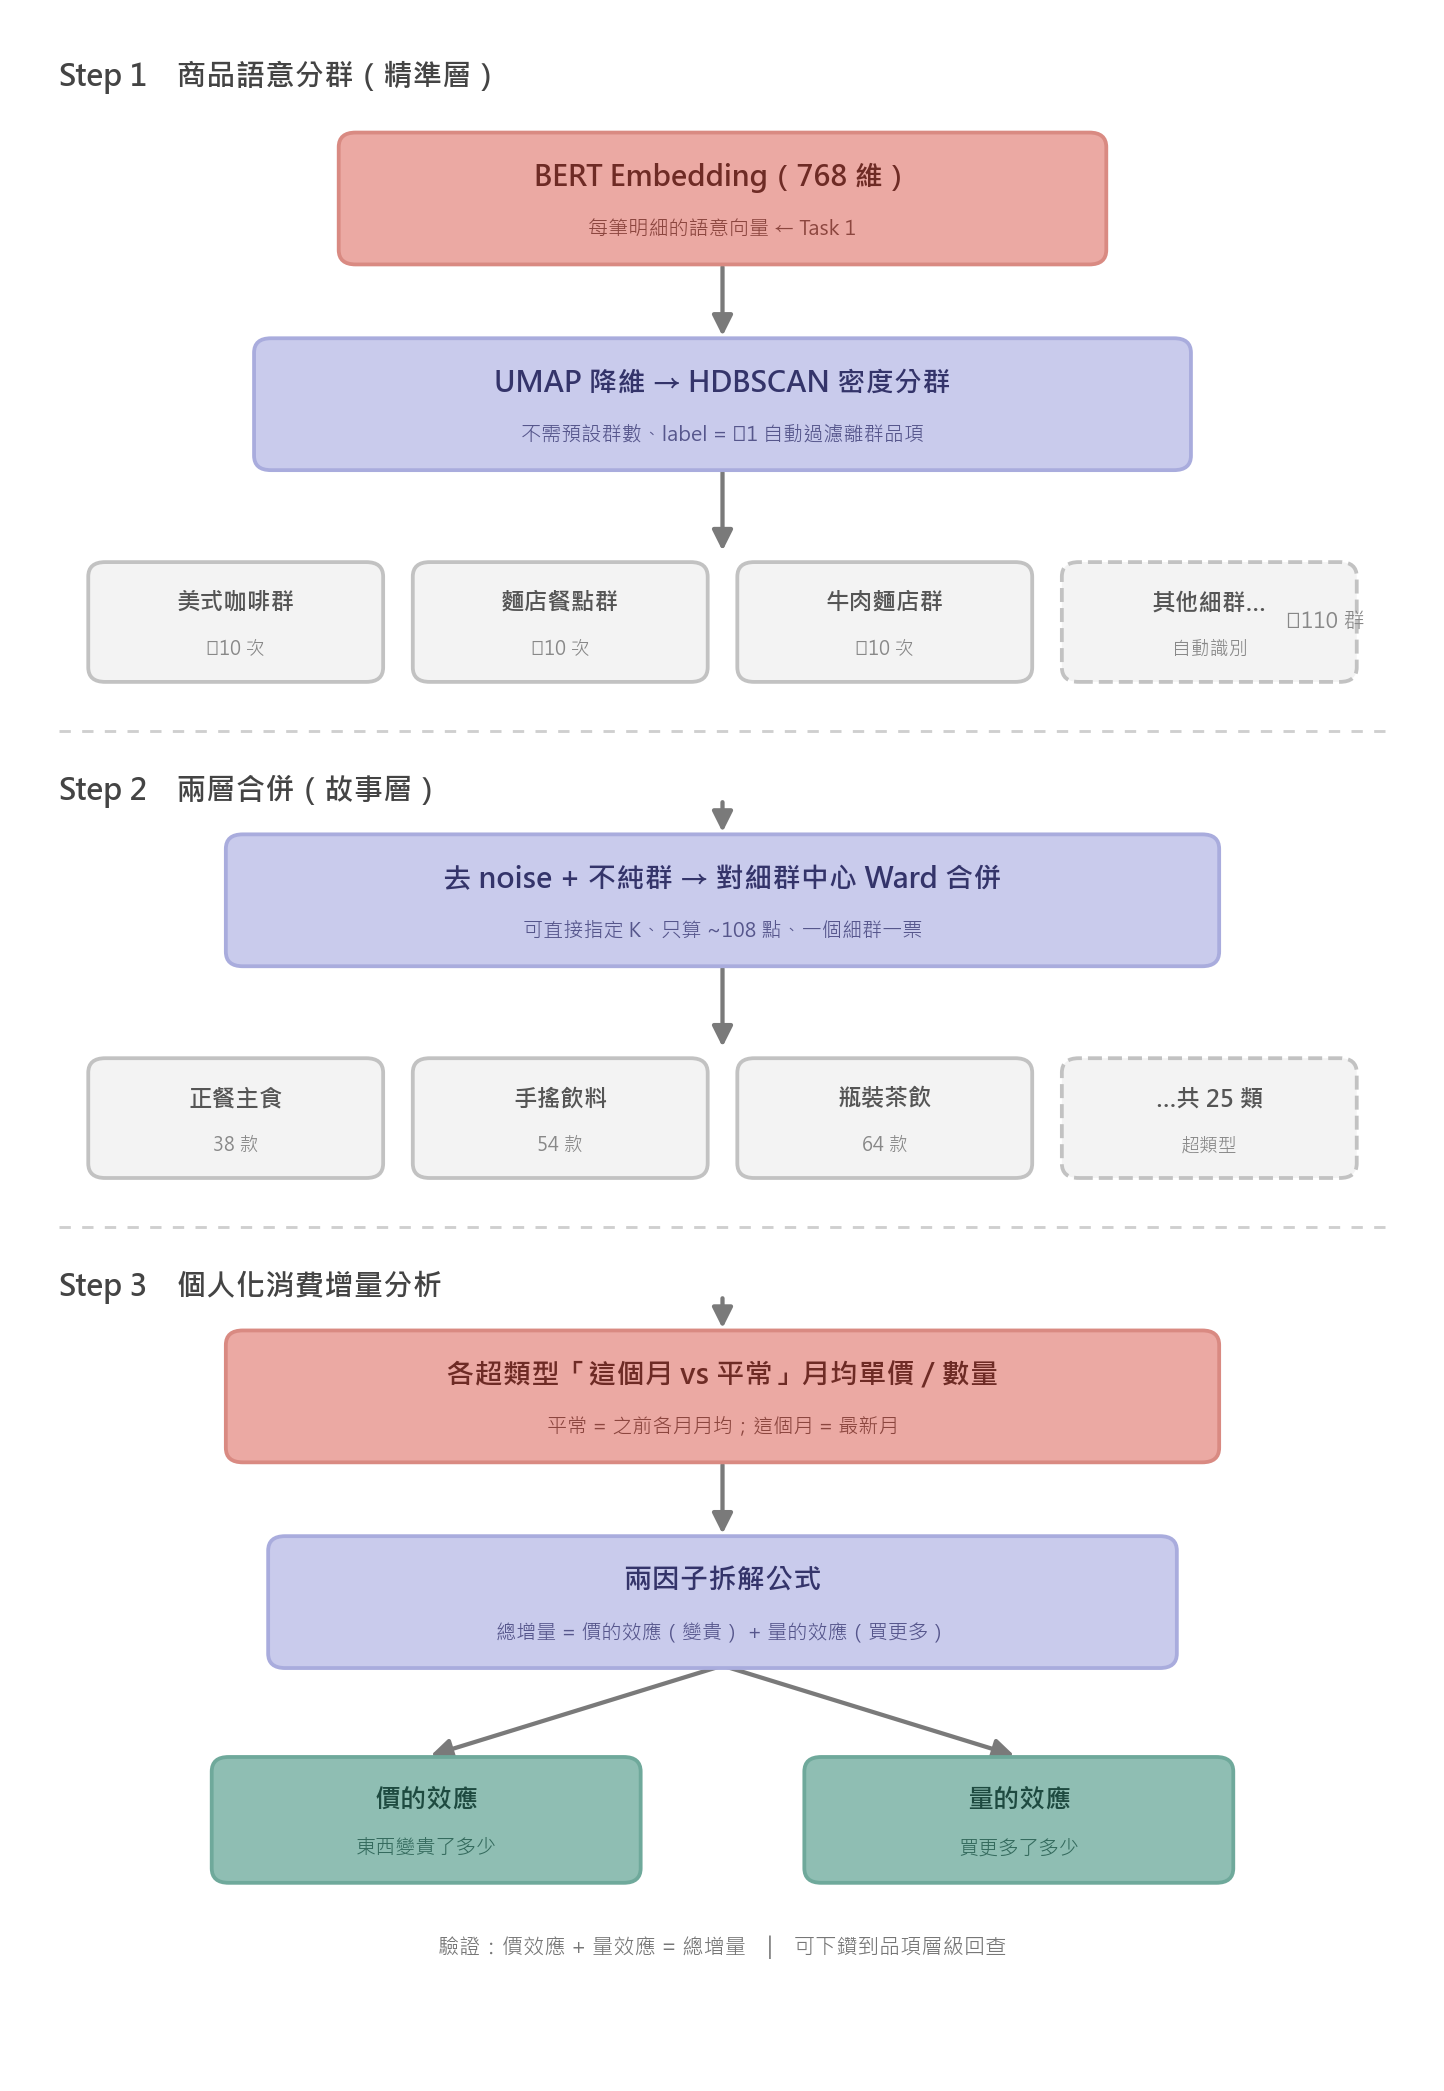
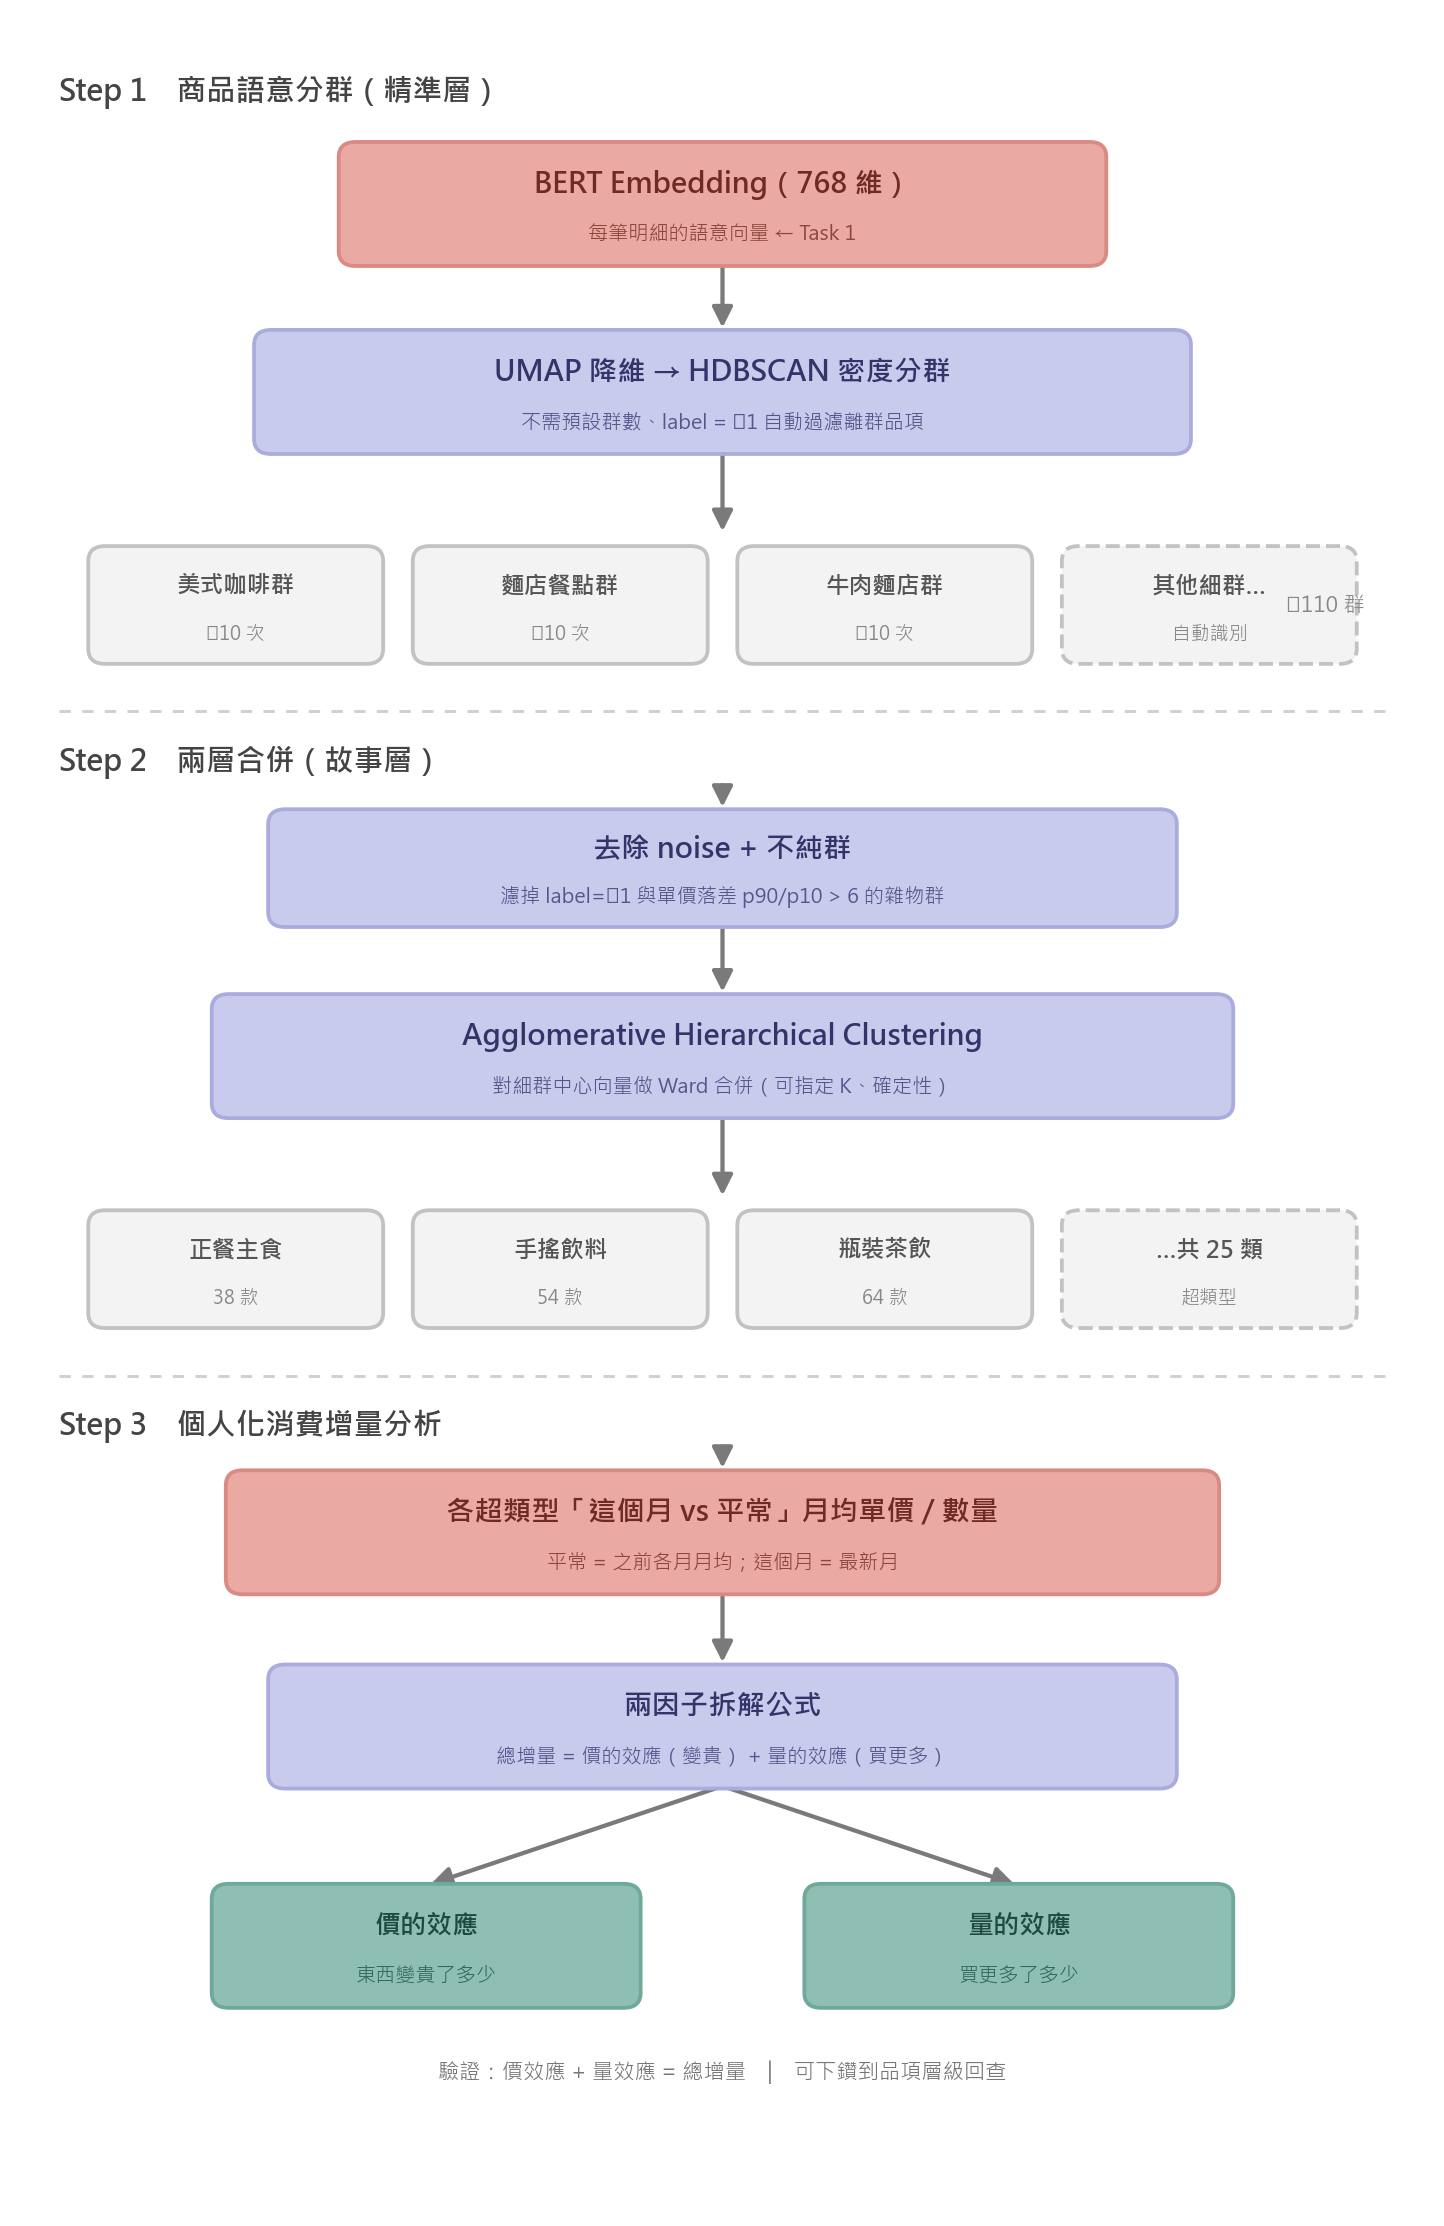
style: split Step 2 in layer3 architecture into separate noise-filter + AHC boxes
Per request: "去除 noise+不純群" and "Agglomerative Hierarchical Clustering 合併細群"
are now two independent boxes instead of one combined box. Re-laid out vertical
spacing to accommodate the extra box.

diff --git a/member_c/make_layer3_architecture.py b/member_c/make_layer3_architecture.py
@@ -19,15 +19,14 @@ for cand in ["Microsoft JhengHei", "Microsoft YaHei", "SimHei", "PingFang TC"]:
         plt.rcParams["axes.unicode_minus"] = False
         break
 
-# 配色（柔和粉/紫/藍綠 + 灰）
 SALMON = dict(fc="#EBA9A3", ec="#D98A82", tc="#6E2B25", sc="#8C463F")
 PURPLE = dict(fc="#C9CBEC", ec="#A9ACDD", tc="#34346A", sc="#56568C")
 TEAL = dict(fc="#8FBEB3", ec="#6FA99B", tc="#1E4A40", sc="#356B5E")
 GREY = dict(fc="#F3F3F3", ec="#C2C2C2", tc="#555555", sc="#888888")
 
-fig, ax = plt.subplots(figsize=(8.6, 12.4))
+fig, ax = plt.subplots(figsize=(8.6, 13.2))
 ax.set_xlim(0, 10)
-ax.set_ylim(0, 17)
+ax.set_ylim(0, 17.5)
 ax.axis("off")
 
 
@@ -38,9 +37,9 @@ def box(cx, cy, w, h, title, subtitle, style, tsize=12, ssize=8.5, dashed=False)
         fc=style["fc"], ec=style["ec"], lw=1.6,
         linestyle="--" if dashed else "-", zorder=2))
     if subtitle:
-        ax.text(cx, cy + h * 0.16, title, ha="center", va="center",
+        ax.text(cx, cy + h * 0.17, title, ha="center", va="center",
                 fontsize=tsize, fontweight="bold", color=style["tc"], zorder=3)
-        ax.text(cx, cy - h * 0.24, subtitle, ha="center", va="center",
+        ax.text(cx, cy - h * 0.25, subtitle, ha="center", va="center",
                 fontsize=ssize, color=style["sc"], zorder=3)
     else:
         ax.text(cx, cy, title, ha="center", va="center",
@@ -63,55 +62,54 @@ def dsep(y):
 
 
 # ===== Step 1 =====
-step_label(16.5, "Step 1　商品語意分群（精準層）")
-b1 = box(5, 15.5, 5.4, 1.05, "BERT Embedding（768 維）",
+step_label(16.9, "Step 1　商品語意分群（精準層）")
+b1 = box(5, 16.0, 5.4, 0.95, "BERT Embedding（768 維）",
          "每筆明細的語意向量 ← Task 1", SALMON)
-b2 = box(5, 13.8, 6.6, 1.05, "UMAP 降維 → HDBSCAN 密度分群",
+b2 = box(5, 14.5, 6.6, 0.95, "UMAP 降維 → HDBSCAN 密度分群",
          "不需預設群數、label = −1 自動過濾離群品項", PURPLE)
 arrow(b1["bot"], b2["top"])
-# 細群範例列
-arrow(b2["bot"], (5, 12.55))
+arrow(b2["bot"], (5, 13.35))
 labels1 = ["美式咖啡群", "麵店餐點群", "牛肉麵店群", "其他細群…"]
 subs1 = ["≥10 次", "≥10 次", "≥10 次", "自動識別"]
 for i, (lab, sub) in enumerate(zip(labels1, subs1)):
     cx = 1.55 + i * 2.3
-    box(cx, 12.0, 2.05, 0.95, lab, sub, GREY, tsize=10, ssize=8,
-        dashed=(i == 3))
-ax.text(9.55, 12.0, "≈110 群", ha="right", va="center", fontsize=9,
+    box(cx, 12.8, 2.05, 0.9, lab, sub, GREY, tsize=10, ssize=8, dashed=(i == 3))
+ax.text(9.55, 12.8, "≈110 群", ha="right", va="center", fontsize=9,
         color="#888", style="italic")
 
-dsep(11.1)
+dsep(11.95)
 
-# ===== Step 2 =====
-step_label(10.6, "Step 2　兩層合併（故事層）")
-b3 = box(5, 9.7, 7.0, 1.05, "去 noise + 不純群 → 對細群中心 Ward 合併",
-         "可直接指定 K、只算 ~108 點、一個細群一票", PURPLE)
-arrow((5, 11.1 - 0.55), b3["top"])  # 從分隔線下方進入
-arrow(b3["bot"], (5, 8.45))
+# ===== Step 2（拆成兩個框）=====
+step_label(11.55, "Step 2　兩層合併（故事層）")
+bf = box(5, 10.7, 6.4, 0.9, "去除 noise + 不純群",
+         "濾掉 label=−1 與單價落差 p90/p10 > 6 的雜物群", PURPLE)
+arrow((5, 11.95 - 0.55), bf["top"])
+ba = box(5, 9.2, 7.2, 0.95, "Agglomerative Hierarchical Clustering",
+         "對細群中心向量做 Ward 合併（可指定 K、確定性）", PURPLE)
+arrow(bf["bot"], ba["top"])
+arrow(ba["bot"], (5, 8.05))
 labels2 = ["正餐主食", "手搖飲料", "瓶裝茶飲", "…共 25 類"]
 subs2 = ["38 款", "54 款", "64 款", "超類型"]
 for i, (lab, sub) in enumerate(zip(labels2, subs2)):
     cx = 1.55 + i * 2.3
-    box(cx, 7.9, 2.05, 0.95, lab, sub, GREY, tsize=10, ssize=8,
-        dashed=(i == 3))
+    box(cx, 7.5, 2.05, 0.9, lab, sub, GREY, tsize=10, ssize=8, dashed=(i == 3))
 
-dsep(7.0)
+dsep(6.65)
 
 # ===== Step 3 =====
-step_label(6.5, "Step 3　個人化消費增量分析")
-b4 = box(5, 5.6, 7.0, 1.05, "各超類型「這個月 vs 平常」月均單價 / 數量",
+step_label(6.25, "Step 3　個人化消費增量分析")
+b4 = box(5, 5.4, 7.0, 0.95, "各超類型「這個月 vs 平常」月均單價 / 數量",
          "平常 = 之前各月月均；這個月 = 最新月", SALMON)
-arrow((5, 7.0 - 0.55), b4["top"])
-b5 = box(5, 3.9, 6.4, 1.05, "兩因子拆解公式",
+arrow((5, 6.65 - 0.55), b4["top"])
+b5 = box(5, 3.85, 6.4, 0.95, "兩因子拆解公式",
          "總增量 = 價的效應（變貴） + 量的效應（買更多）", PURPLE)
 arrow(b4["bot"], b5["top"])
-# 兩輸出
-o1 = box(2.9, 2.1, 3.0, 1.0, "價的效應", "東西變貴了多少", TEAL, tsize=11, ssize=8.5)
-o2 = box(7.1, 2.1, 3.0, 1.0, "量的效應", "買更多了多少", TEAL, tsize=11, ssize=8.5)
-arrow(b5["bot"], (2.9, 2.62))
-arrow(b5["bot"], (7.1, 2.62))
+o1 = box(2.9, 2.1, 3.0, 0.95, "價的效應", "東西變貴了多少", TEAL, tsize=11, ssize=8.5)
+o2 = box(7.1, 2.1, 3.0, 0.95, "量的效應", "買更多了多少", TEAL, tsize=11, ssize=8.5)
+arrow(b5["bot"], (2.9, 2.58))
+arrow(b5["bot"], (7.1, 2.58))
 
-ax.text(5, 1.05, "驗證：價效應 + 量效應 = 總增量　|　可下鑽到品項層級回查",
+ax.text(5, 1.1, "驗證：價效應 + 量效應 = 總增量　|　可下鑽到品項層級回查",
         ha="center", va="center", fontsize=9, color="#777", style="italic")
 
 fig.tight_layout()
